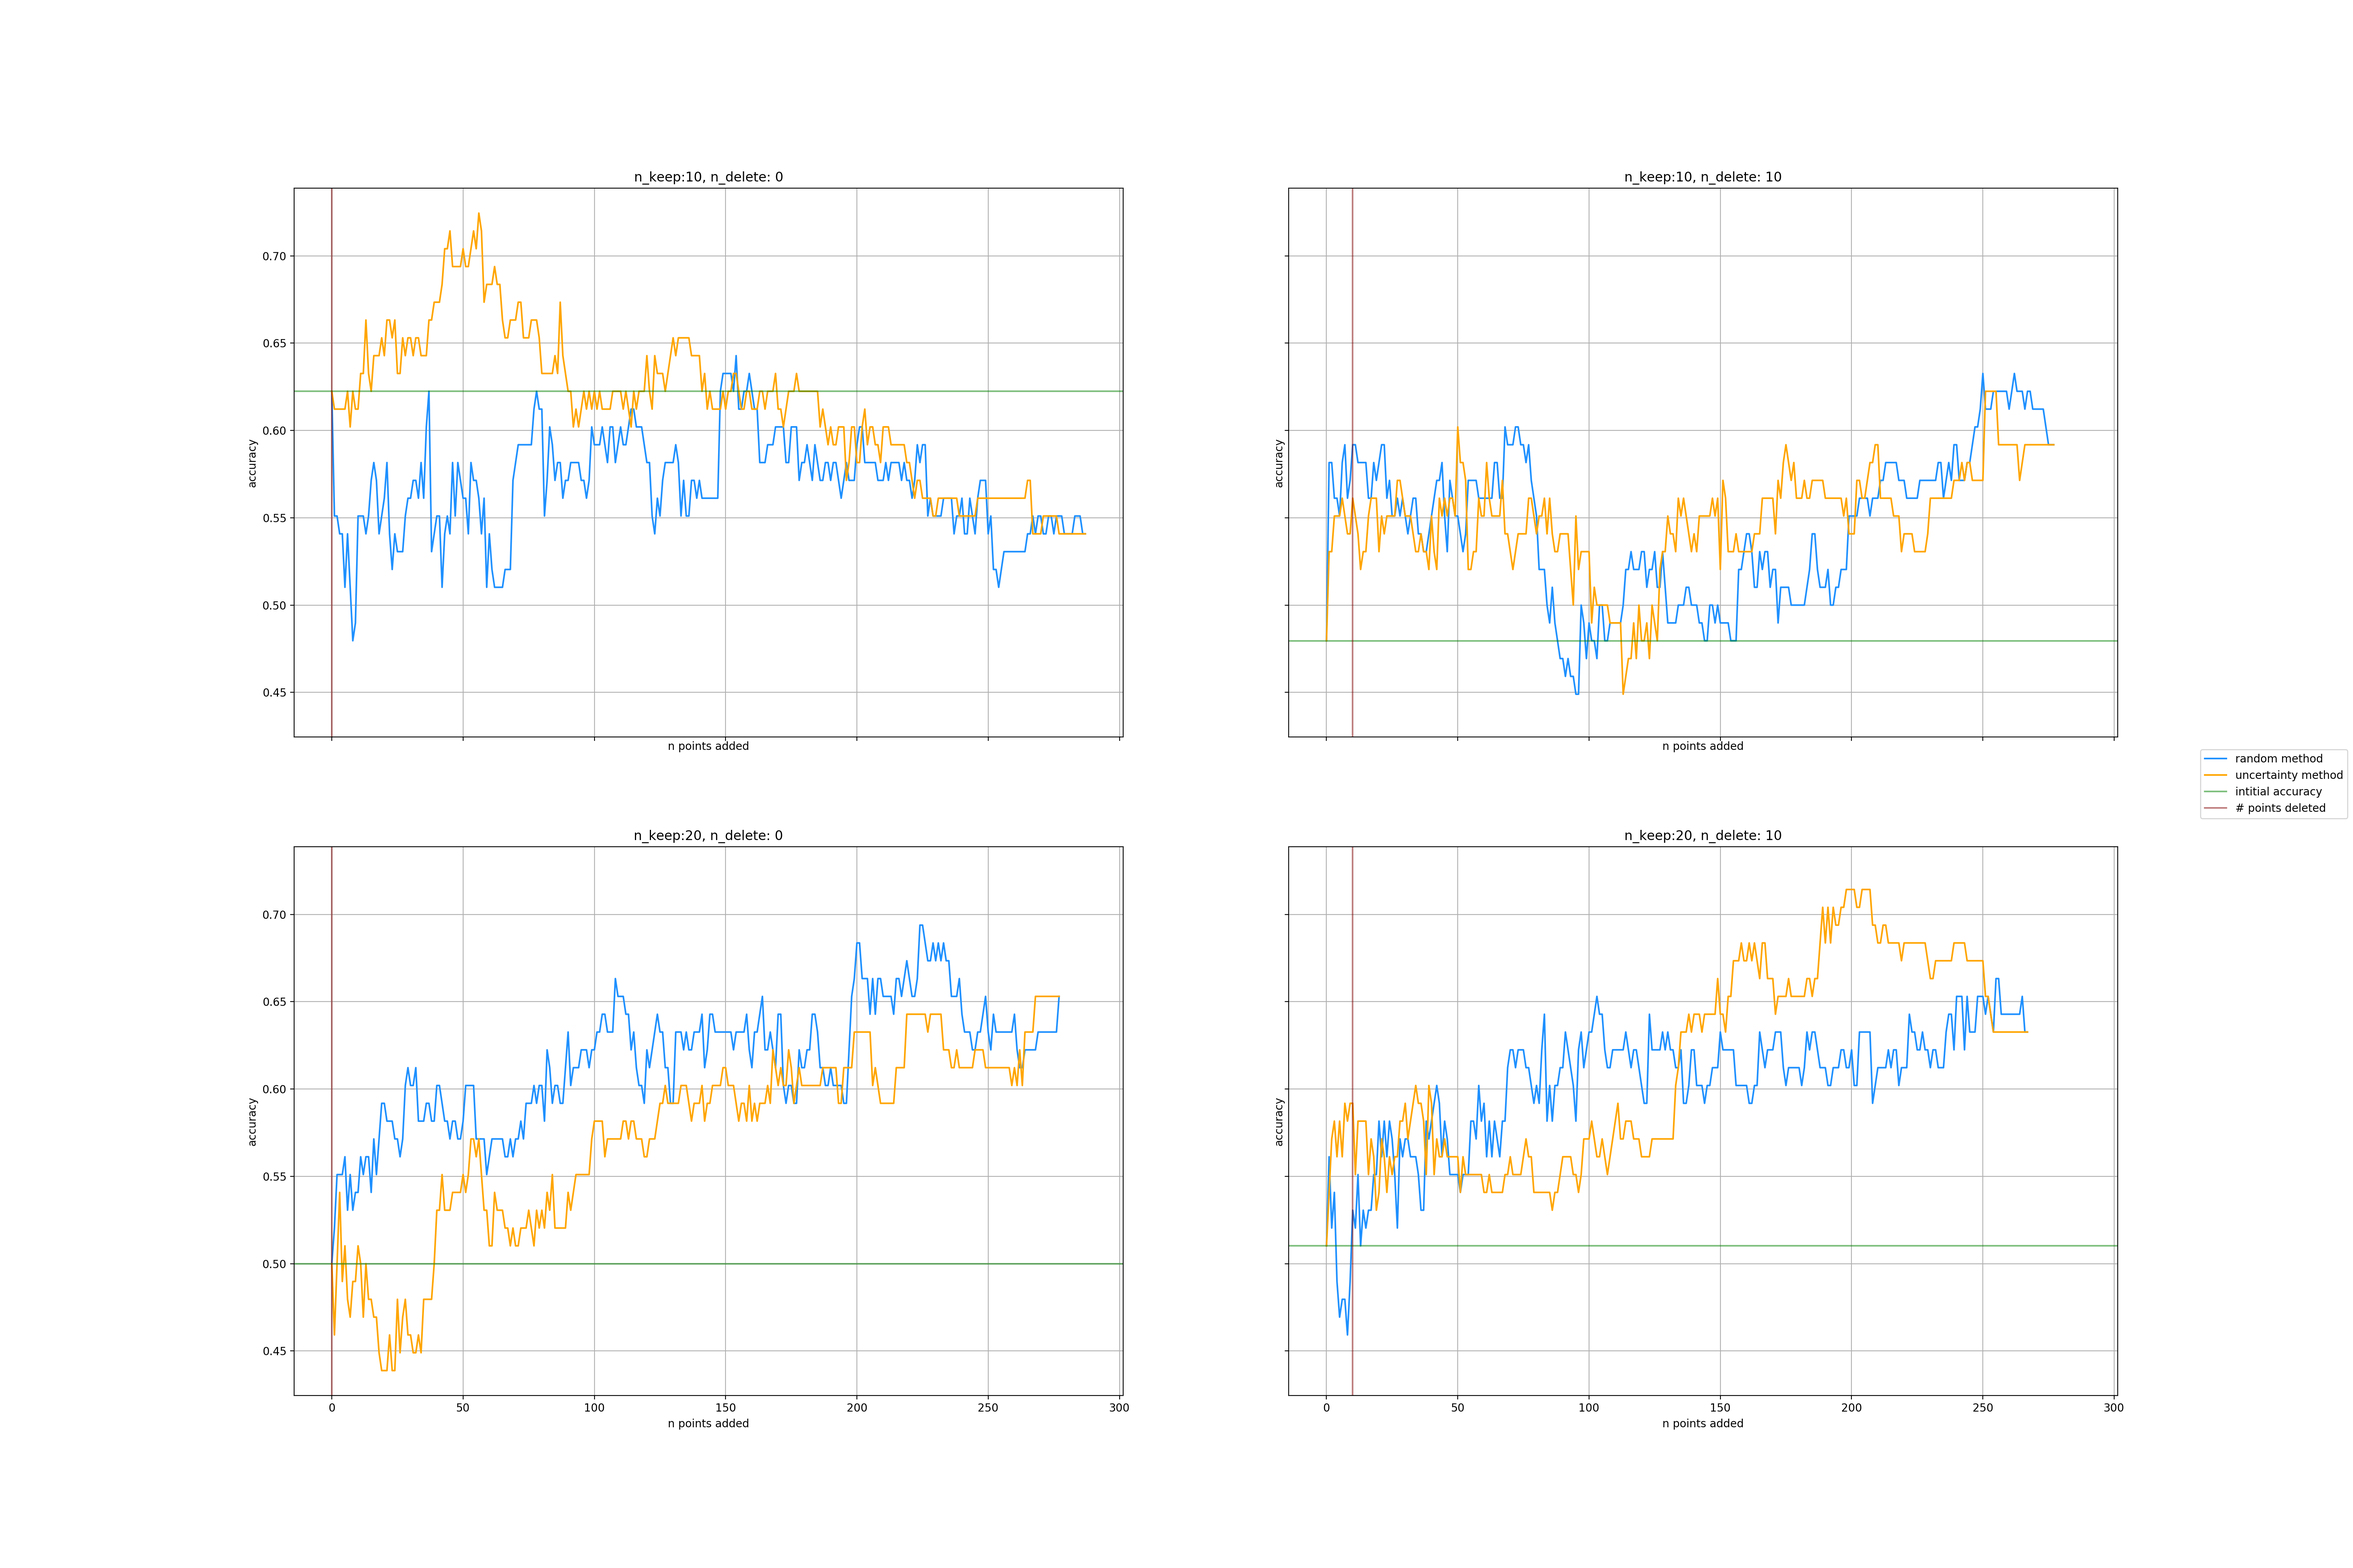
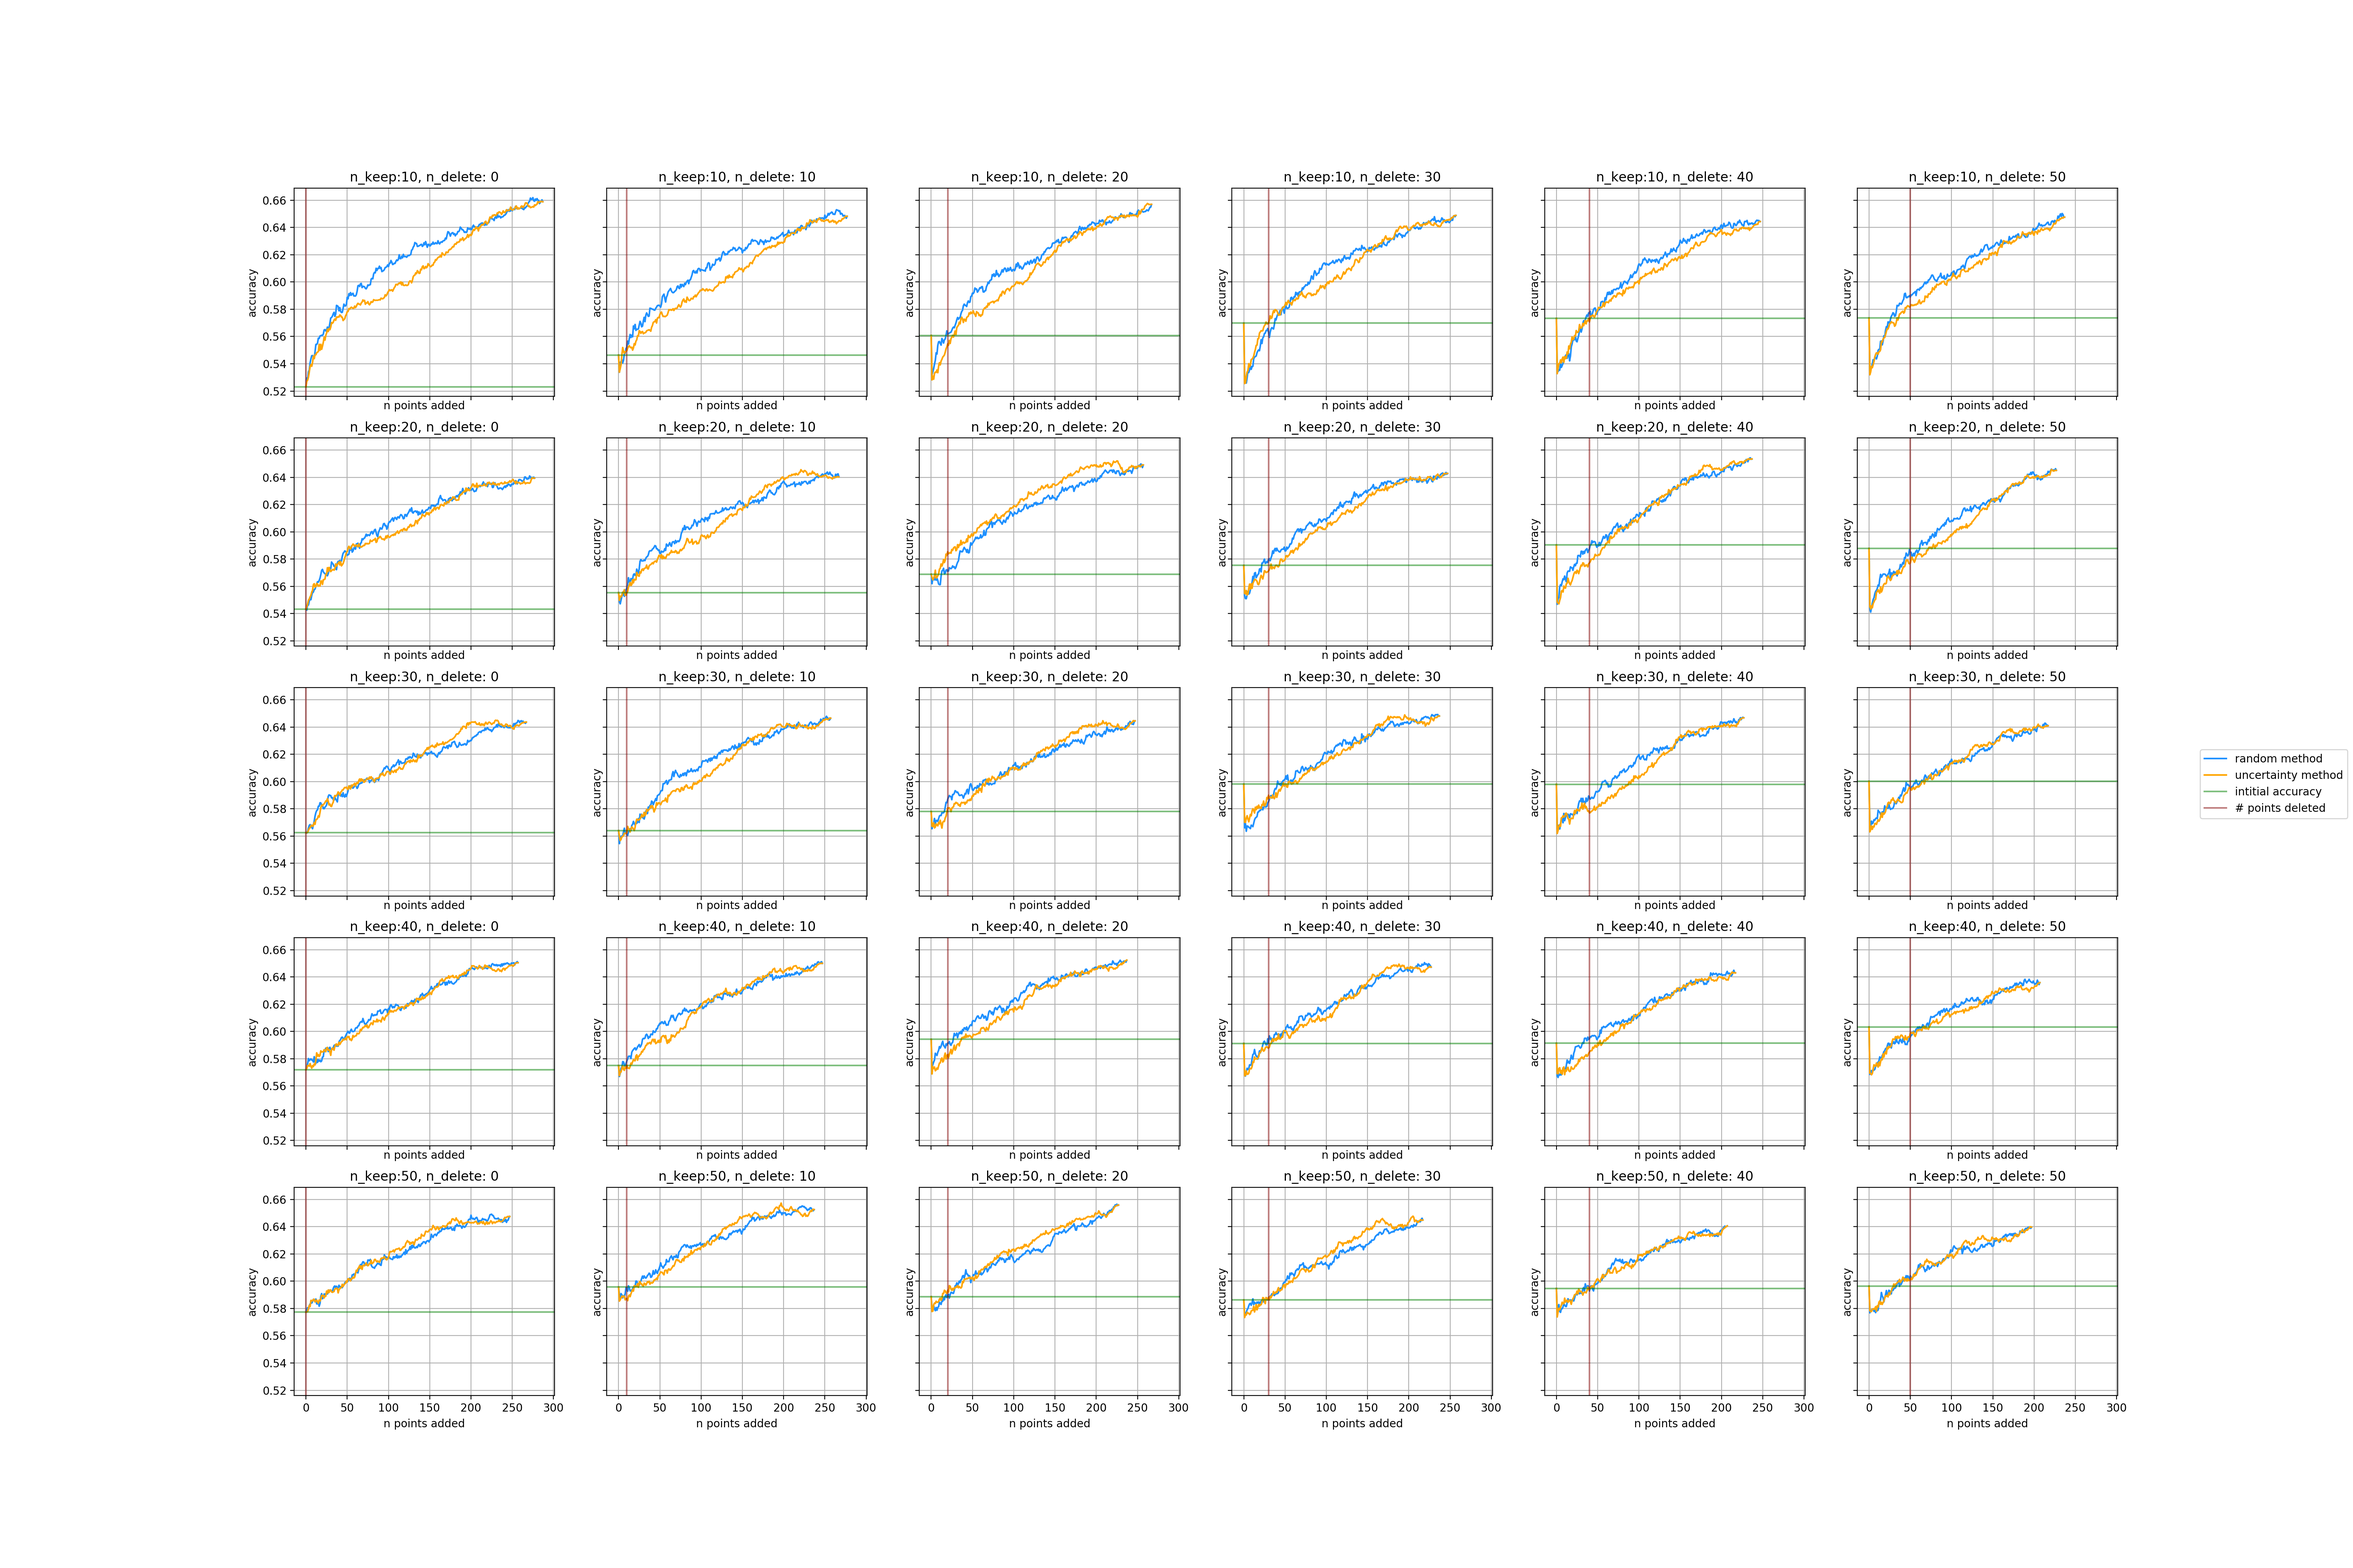
complete experiments for admission and alcohol

diff --git a/run_admission_experiments.py b/run_admission_experiments.py
@@ -26,7 +26,7 @@ import pandas as pd
 #import numpy as np
 #import matplotlib.pyplot as plt
 
-test = True
+test = False
 
 #heart, heart_with_dummies = get_heart_data('input/heart.csv')
 #data = heart_with_dummies

diff --git a/run_grade_experiments.py b/run_grade_experiments.py
@@ -26,7 +26,7 @@ import pandas as pd
 #import numpy as np
 #import matplotlib.pyplot as plt
 
-test = True
+test = False
 
 #heart, heart_with_dummies = get_heart_data('input/heart.csv')
 #data = heart_with_dummies
